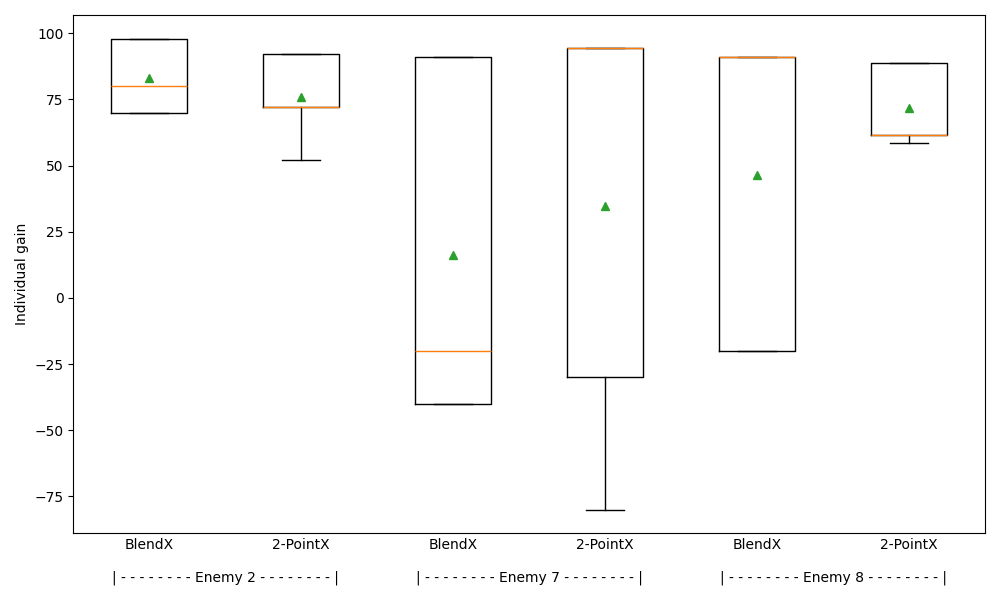
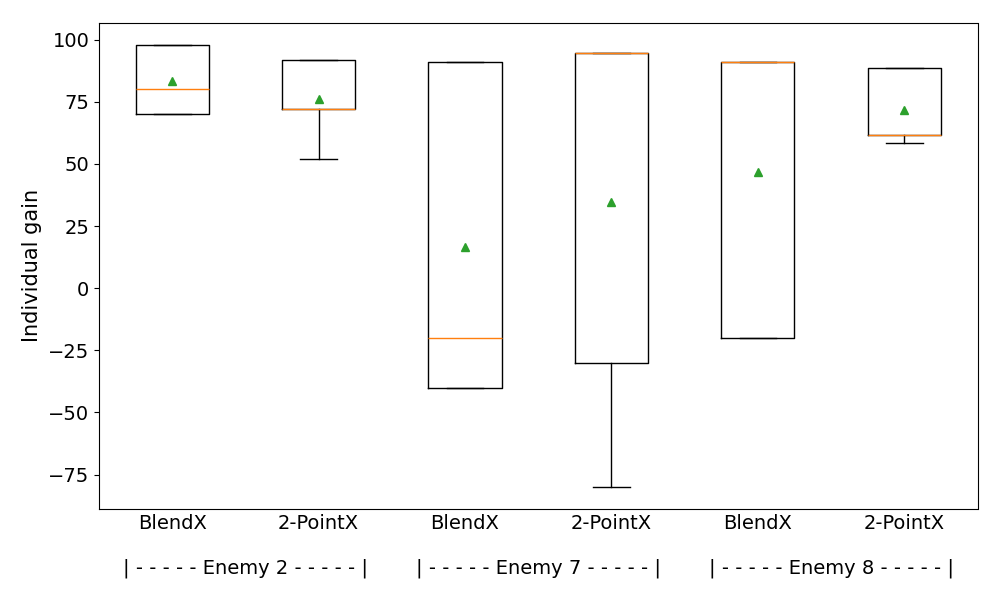
Increase font size

diff --git a/create_boxplot.py b/create_boxplot.py
@@ -14,19 +14,22 @@ twopointx8 = [88.6, 61.6, 61.6, 88.6, 58.6]
 data = [blendx2, twopointx2, blendx7, twopointx7, blendx8, twopointx8]
 
 fig, ax = plt.subplots(figsize=(10, 6))
-plt.rcParams.update({'font.size': 10})
+plt.rcParams.update({'font.size': 15})
 ax.boxplot(data, showmeans=True)
 
 # Add labels and legend (title is added in latex)
 # plt.xlabel('EA specialist instances')
-plt.ylabel('Individual gain')
+plt.ylabel('Individual gain', fontsize=15)
 
 # Edit x-limits and ticks
 plt.xticks([1, 1.5, 2, 3, 3.5, 4, 5, 5.5, 6],
-           ['BlendX', '\n\n| - - - - - - - - Enemy 2 - - - - - - - - |', '2-PointX',
-            'BlendX', '\n\n| - - - - - - - - Enemy 7 - - - - - - - - |', '2-PointX',
-            'BlendX', '\n\n| - - - - - - - - Enemy 8 - - - - - - - - |', '2-PointX'])
-ax.tick_params(axis='x', which='both',length=0)
+           ['BlendX', '\n\n| - - - - - Enemy 2 - - - - - |', '2-PointX',
+            'BlendX', '\n\n| - - - - - Enemy 7 - - - - - |', '2-PointX',
+            'BlendX', '\n\n| - - - - - Enemy 8 - - - - - |', '2-PointX'])
+ax.tick_params(axis='x', which='both', length=0, labelsize=14)
+ax.tick_params(axis='y', labelsize=14)
 
 plt.tight_layout()
+plt.rcParams.update({'font.size': 15})
+
 plt.show()
